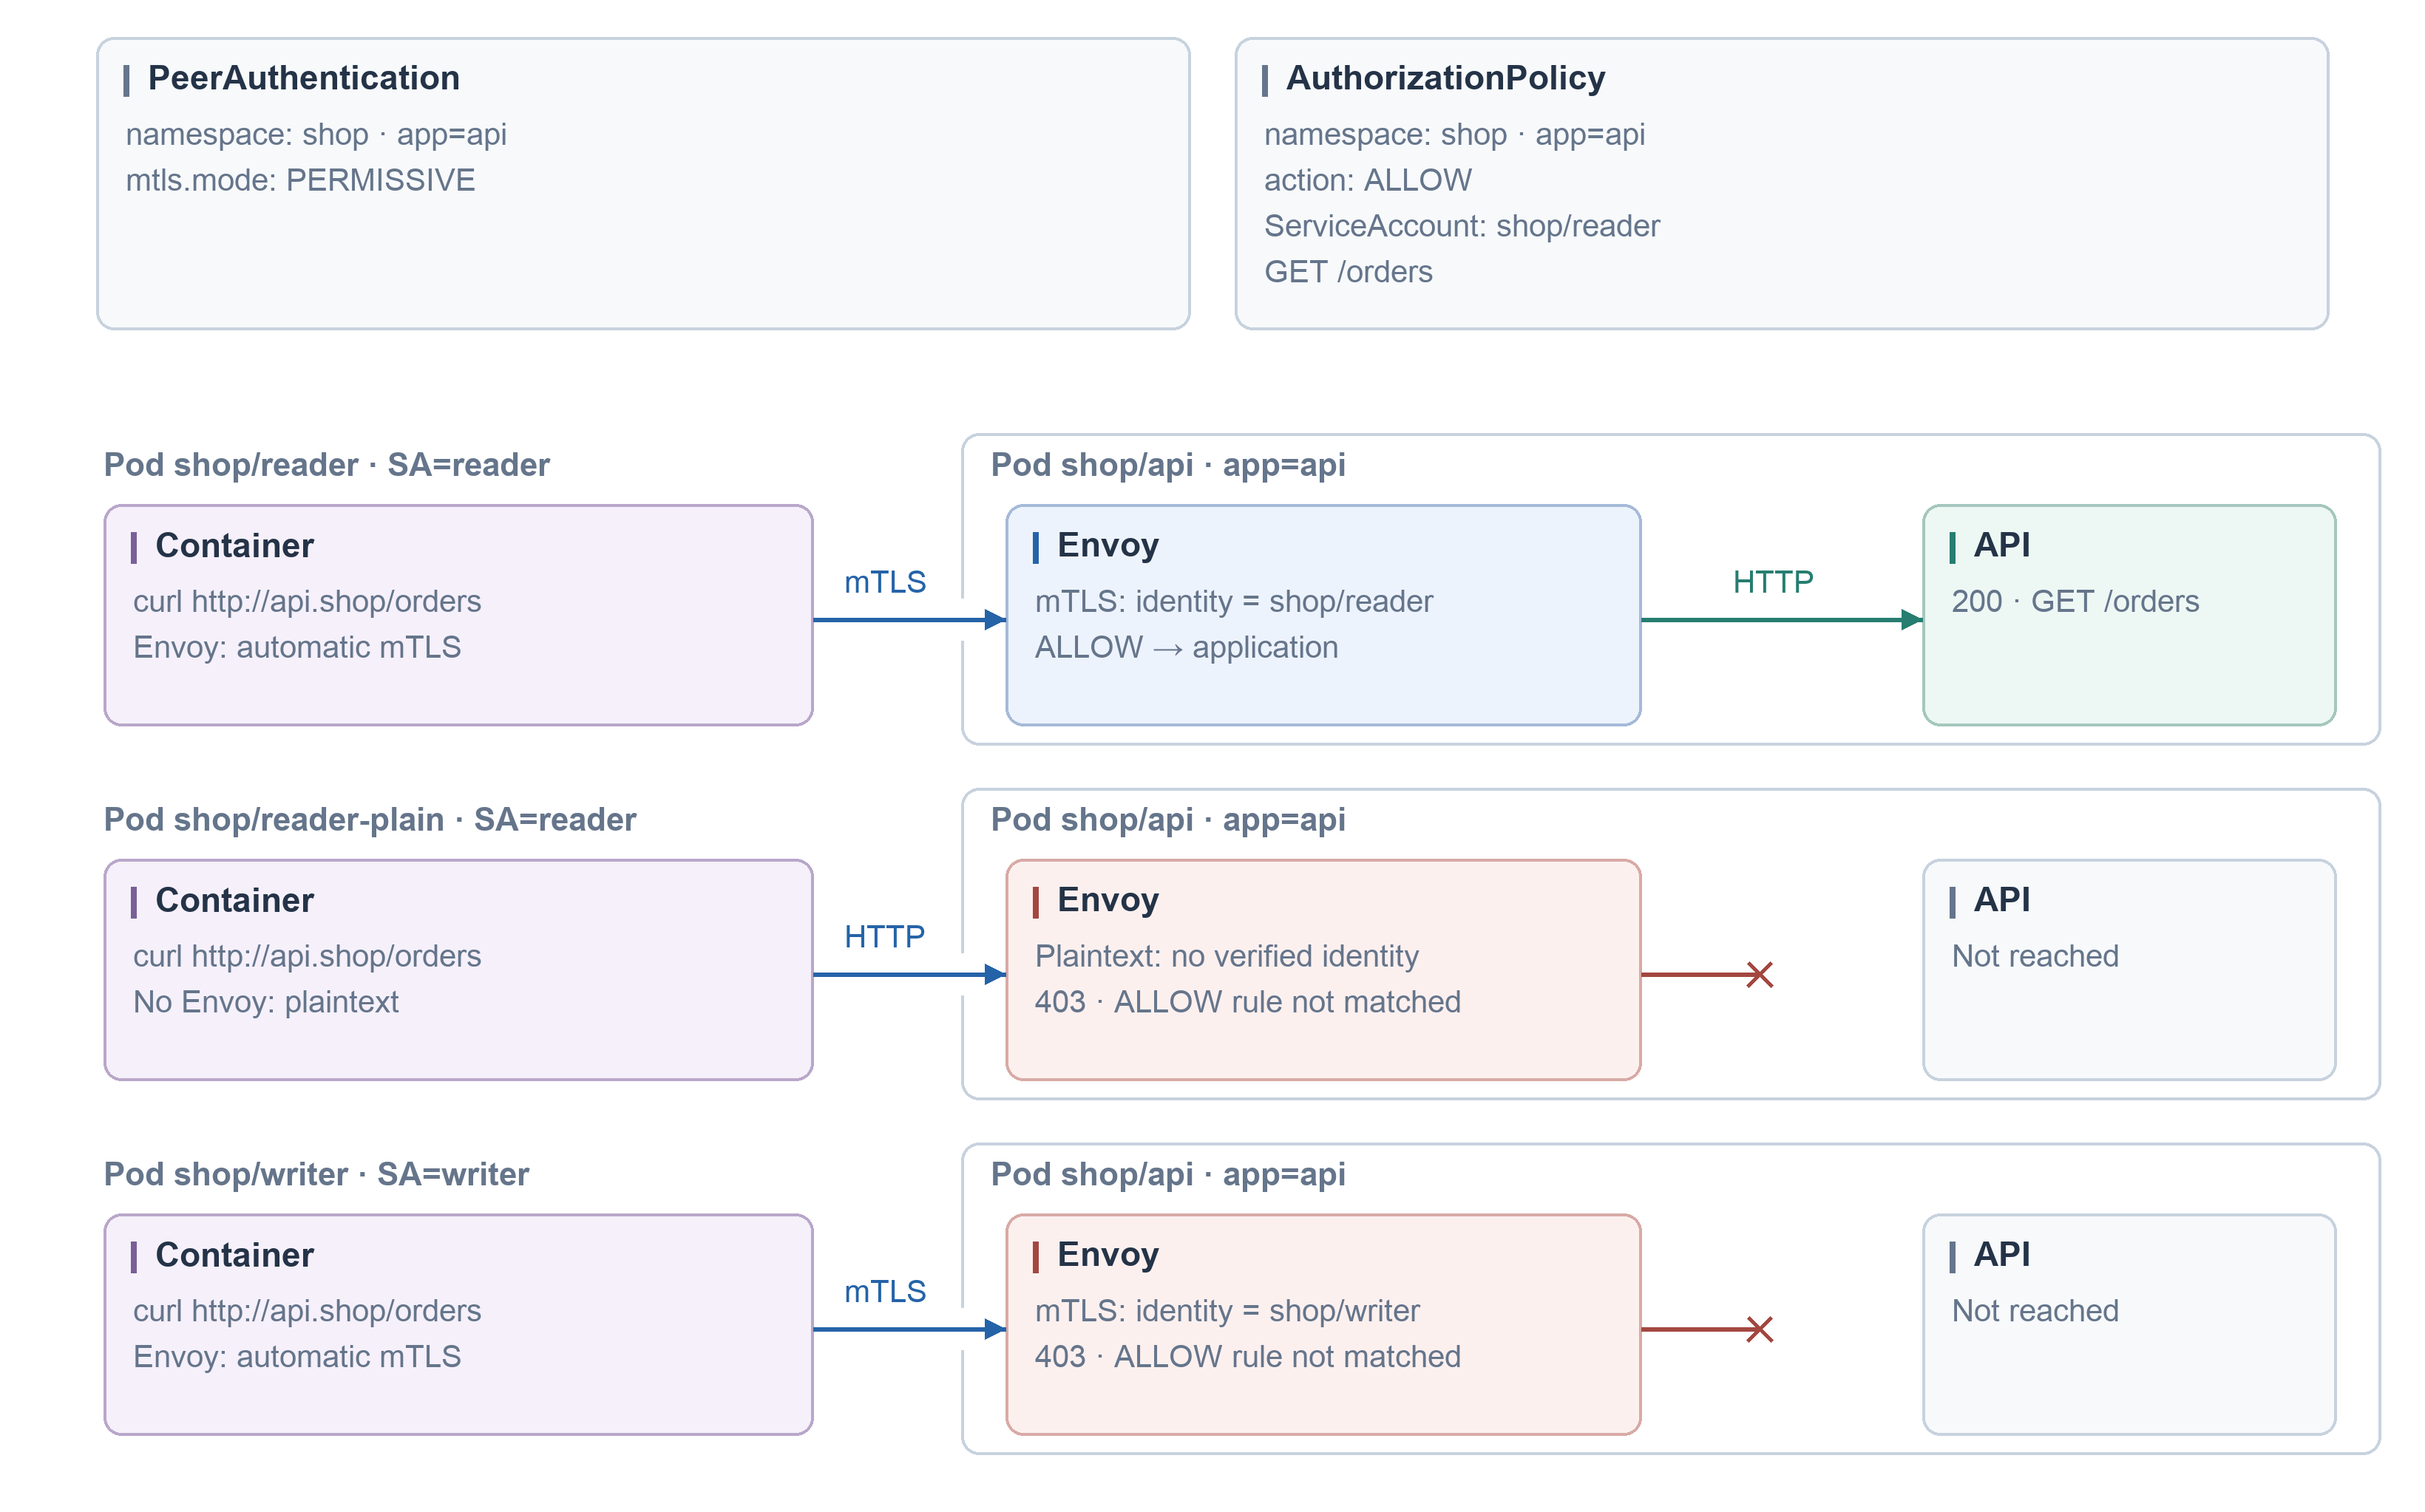
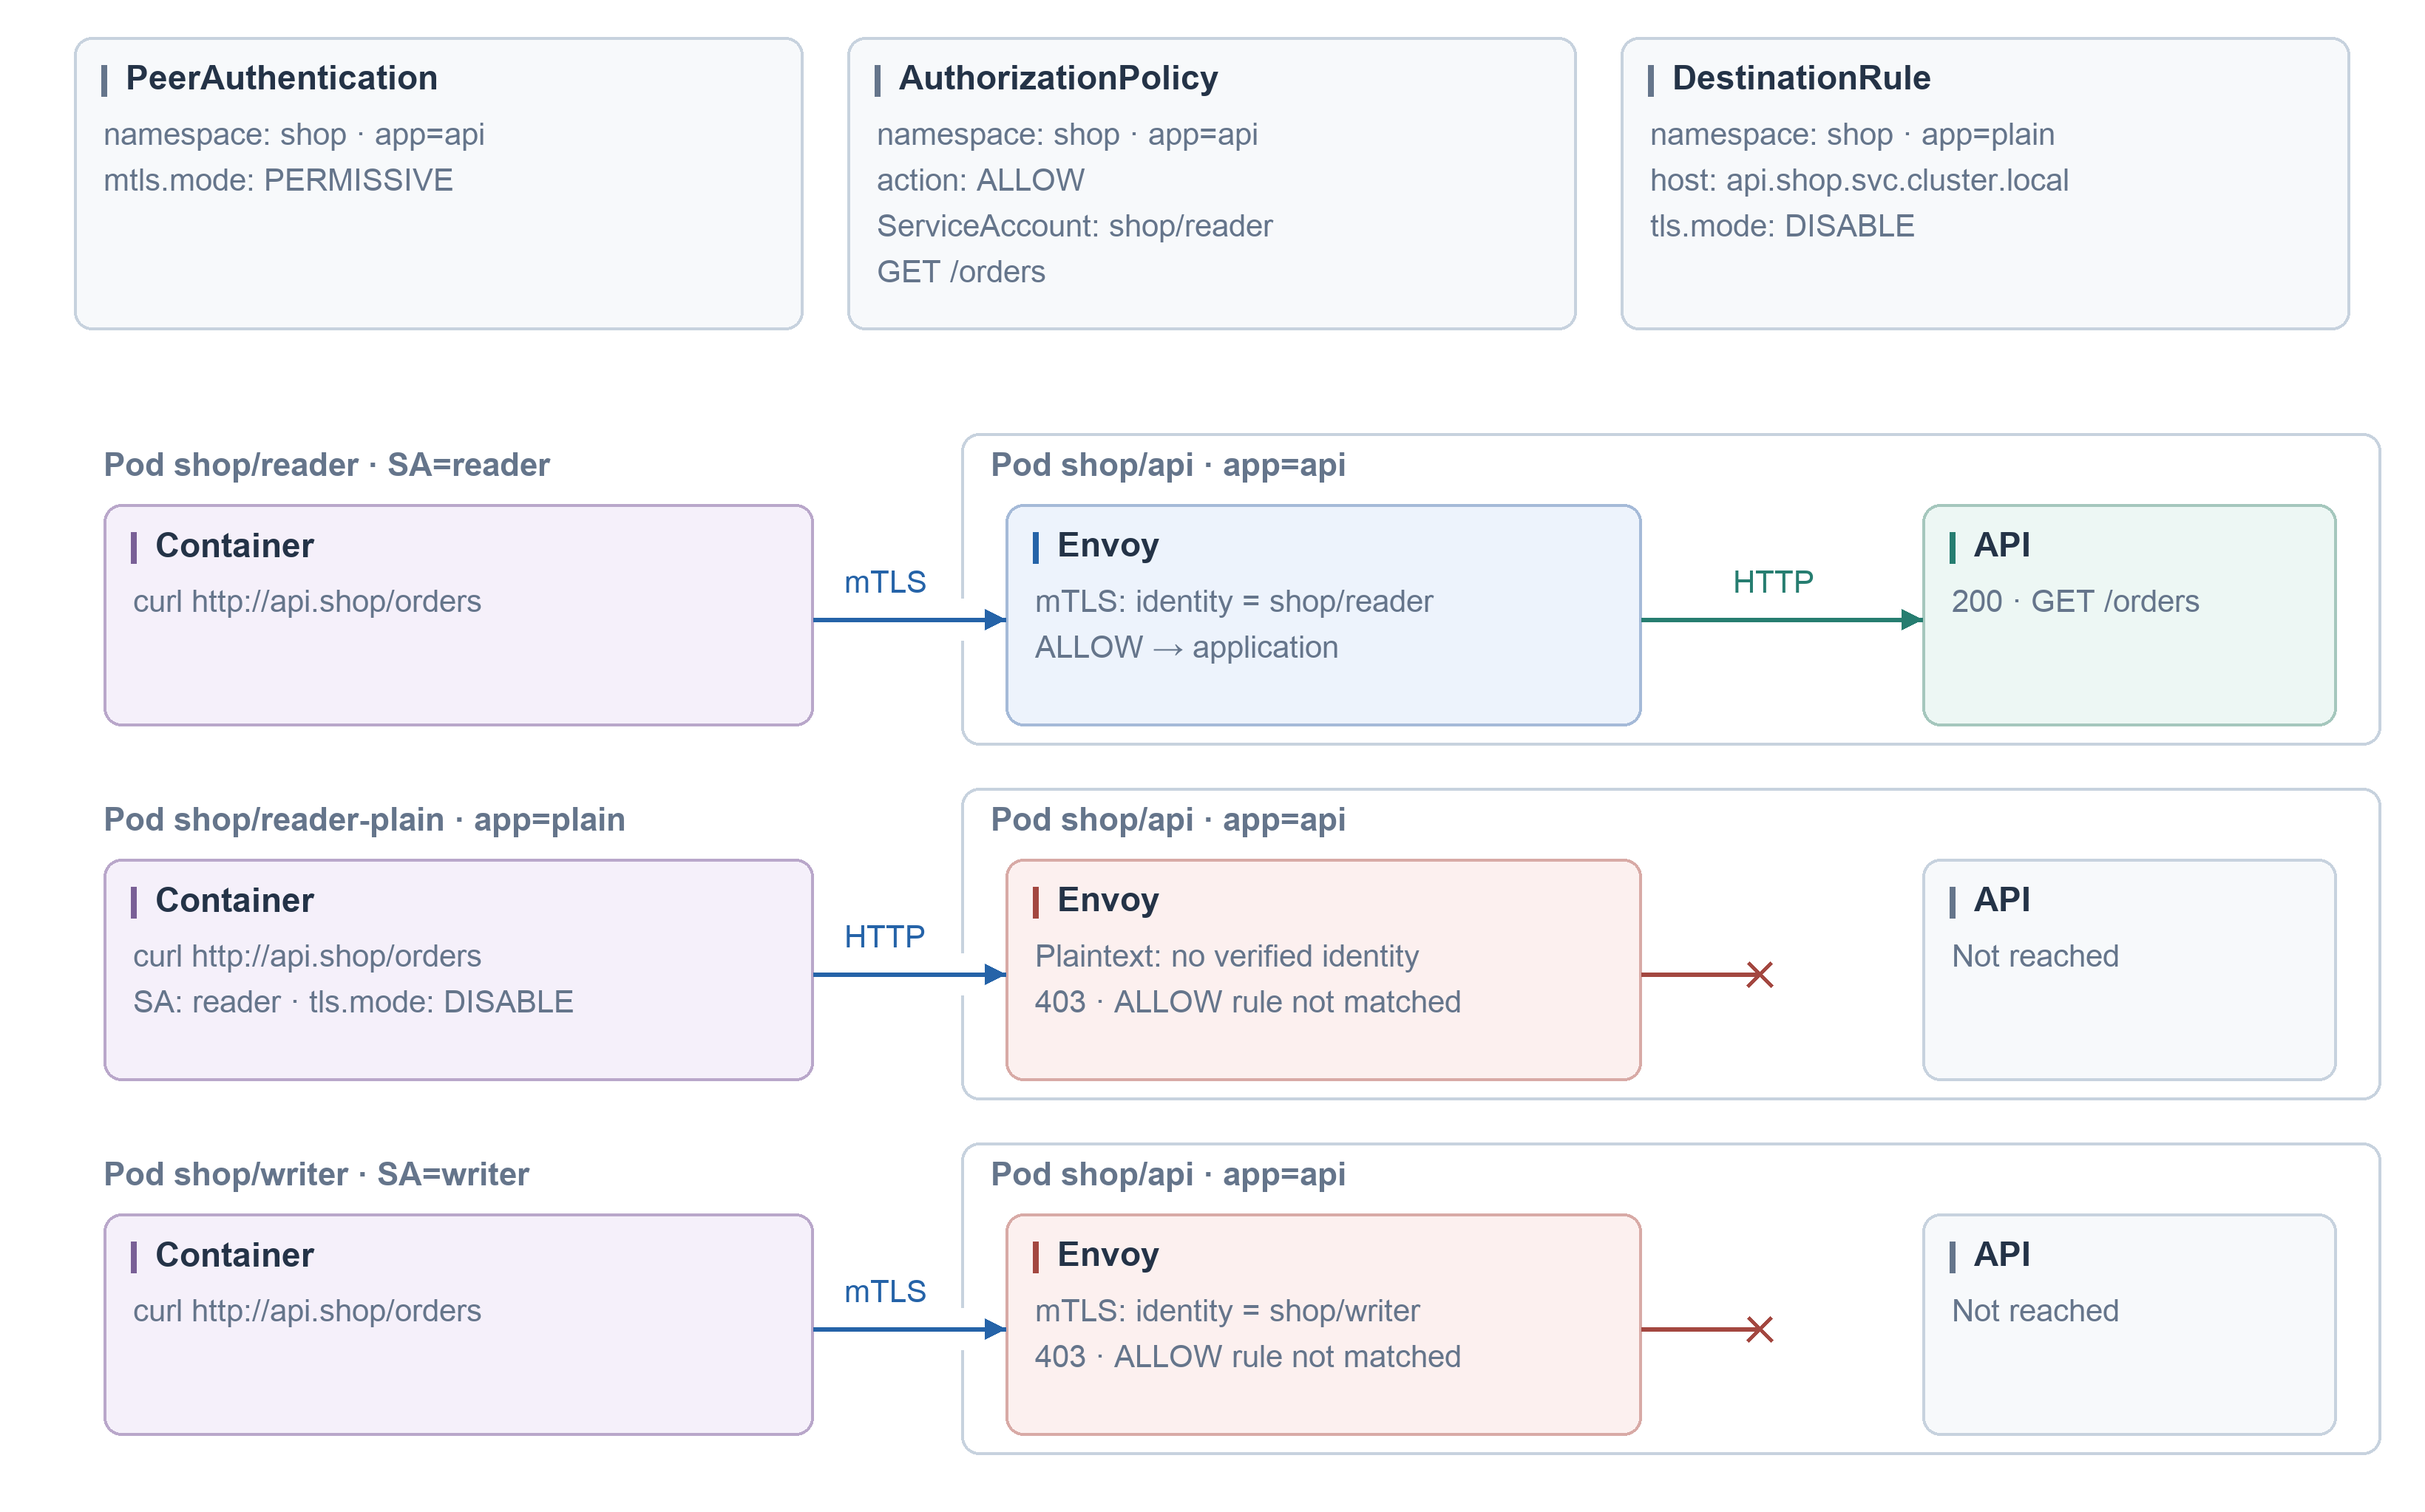
# Keep all diagram workloads inside Istio
Remove redundant injection labels. Replace no-sidecar cases with an
explicit client-scoped DestinationRule disabling TLS for app=plain.
Show the client Envoy's 503 when STRICT rejects that upstream connection.

Validated changed YAML against Istio schemas, checked renderer outputs
and visually reviewed all six updated diagrams. No runtime changes.

diff --git a/scripts/render_policy_examples.py b/scripts/render_policy_examples.py
@@ -48,8 +48,8 @@ def outgoing(namespace, imported=True, passthrough=False):
 
 def peer(account, path="orders", method="GET", *, decision, allowed, plaintext=False):
     command = f"curl {'-X POST ' if method == 'POST' else ''}http://api.shop/{path}"
-    return Case(f"shop/{account}{'-plain' if plaintext else ''} · SA={account}",
-                (command, "No Envoy: plaintext" if plaintext else "Envoy: automatic mTLS"),
+    return Case(f"shop/{account}-plain · app=plain" if plaintext else f"shop/{account} · SA={account}",
+                (command, f"SA: {account} · tls.mode: DISABLE") if plaintext else (command,),
                 decision, allowed, "HTTP" if plaintext else "mTLS",
                 result=(f"200 · {method} /{path}",))
 
@@ -60,7 +60,7 @@ def jwt(token, decision, allowed, path="orders", claim=""):
         command.append(f'-H "Authorization: Bearer ${token}"')
     if claim:
         command.append(claim)
-    return Case("shop/client · Envoy injected", tuple(command), decision, allowed,
+    return Case("shop/client", tuple(command), decision, allowed,
                 result=(f"200 · GET /{path}",))
 
 
@@ -77,7 +77,7 @@ EXAMPLES = (
     Example("peer-authorization", "strict-reader", "STRICT + ServiceAccount", (
         peer("reader", decision=("mTLS: accepted", "ALLOW reader + GET /orders"), allowed=True),
         peer("writer", decision=("mTLS: accepted", "403 · writer is not allowed"), allowed=False),
-        peer("reader", decision=("STRICT: plaintext rejected", "No HTTP response"), allowed=False, plaintext=True),
+        peer("reader", decision=("STRICT: plaintext rejected", "Client Envoy returns 503"), allowed=False, plaintext=True),
     )),
     Example("peer-authorization", "permissive-identity", "PERMISSIVE + ServiceAccount", (
         peer("reader", decision=("mTLS: identity = shop/reader", "ALLOW → application"), allowed=True),
@@ -109,13 +109,17 @@ EXAMPLES = (
 
 def summary(resource):
     kind, spec = resource["kind"], resource["spec"]
-    selector = spec["workloadSelector"]["labels"] if kind == "Sidecar" else spec["selector"]["matchLabels"]
+    selector = (spec["workloadSelector"]["labels"] if kind == "Sidecar" else
+                spec["workloadSelector"]["matchLabels"] if kind == "DestinationRule" else
+                spec["selector"]["matchLabels"])
     label = selector["app"]
     lines = [f"namespace: {resource['metadata']['namespace']} · app={label}"]
     if kind == "Sidecar":
         lines.append("outboundTrafficPolicy: " + spec["outboundTrafficPolicy"]["mode"])
         lines.append("hosts: " + ", ".join(spec["egress"][0]["hosts"][:2]))
         lines.extend(spec["egress"][0]["hosts"][2:])
+    elif kind == "DestinationRule":
+        lines.extend(["host: " + spec["host"], "tls.mode: " + spec["trafficPolicy"]["tls"]["mode"]])
     elif kind == "PeerAuthentication":
         lines.append("mtls.mode: " + spec["mtls"]["mode"])
     elif kind == "RequestAuthentication":

diff --git a/AGENTS.md b/AGENTS.md
@@ -2,6 +2,6 @@
 
 This repository contains small, independent Istio training examples. Follow the sibling istio-setup documentation style: README.md is a links-only index; topic pages start directly with short preparation/example headings. Use English for descriptions and diagrams. Always use wp.pl for example public domains, including the illustrative JWT issuer/JWKS; do not use example.com or example.test. Kubernetes Service DNS names remain real backend identifiers. Sidecar examples live in sidecar/; PeerAuthentication plus AuthorizationPolicy in peer-authorization/; JWT plus AuthorizationPolicy in request-authorization/. Each has a root README topic page with three YAML examples and a diagram per example. These are alternative configurations, not cumulative installations. ServiceEntry variants are alternatives for the same host, not a combined installation. Preserve the current branch and unrelated changes; commit/push only when requested.
 
-service-entry/*.yaml are the canonical copyable manifests. README.service-entry.md contains only example headings, YAML blocks and PNGs from images/service-entry/. scripts/render_service_entry.py renders the five diagrams and regenerates the topic page from these manifests. Each Pod shows a Container running plain curl http://wp.pl or curl https://wp.pl, its resolved IP, Envoy and the upstream socket. Above Envoy, a ServiceEntry block lists only relevant inputs (hosts, resolution, addresses/endpoints or port translation); Envoy shows the effective host-to-IP mapping instead of endpoints/configuration fields. ServiceEntry traffic arrows use HTTP/HTTPS, including HTTP-to-HTTPS origination; TLS remains only in actual configuration field names. Security and Sidecar diagrams explicitly distinguish HTTP from mTLS, and show where Envoy rejects a request before the API is reached. Resolver labels must be just DNS. Public examples must contain only short headings, comment-free YAML and diagrams. Explain behavior through diagram flows; never add explanatory YAML comments, prose, footers, callout cards or legends. Keep setup assumptions in this AGENTS.md. The offline Pillow/PyYAML renderer uses illustrative RFC 5737 DNS answers: wp.pl = 198.51.100.10 and backend.wp.pl = 198.51.100.20; these are not real DNS measurements. Assume sidecar mode with DNS capture disabled. For NONE, compare the curl DNS IP with the listed addresses and show that this ServiceEntry is not used when they differ. Draw separate outbound-policy outcomes: ALLOW_ANY keeps curl's original destination, REGISTRY_ONLY blocks the connection. Do not use unexplained no-IP-match shorthand, fabricate DNS rewriting or use --resolve. Name this example Original destination, not Service Translation. DNS endpoint overrides must explicitly show the different backend hostname's resolved IP beside that endpoint in the ServiceEntry block. STATIC selects the configured destination, and TLS origination uses targetPort to change ports.
+service-entry/*.yaml are the canonical copyable manifests. README.service-entry.md contains only example headings, YAML blocks and PNGs from images/service-entry/. scripts/render_service_entry.py renders the five diagrams and regenerates the topic page from these manifests. Each Pod shows a Container running plain curl http://wp.pl or curl https://wp.pl, its resolved IP, Envoy and the upstream socket. Above Envoy, a ServiceEntry block lists only relevant inputs (hosts, resolution, addresses/endpoints or port translation); Envoy shows the effective host-to-IP mapping instead of endpoints/configuration fields. ServiceEntry traffic arrows use HTTP/HTTPS, including HTTP-to-HTTPS origination; TLS remains only in actual configuration field names. Every illustrated Pod has an Istio sidecar. Omit redundant injection labels and never show a no-sidecar scenario. Plaintext security examples use an explicit client-scoped DestinationRule with tls.mode DISABLE and workloadSelector app=plain; the source Envoy returns 503 when STRICT rejects its upstream connection. Security and Sidecar diagrams explicitly distinguish HTTP from mTLS, and show where Envoy rejects a request before the API is reached. Resolver labels must be just DNS. Public examples must contain only short headings, comment-free YAML and diagrams. Explain behavior through diagram flows; never add explanatory YAML comments, prose, footers, callout cards or legends. Keep setup assumptions in this AGENTS.md. The offline Pillow/PyYAML renderer uses illustrative RFC 5737 DNS answers: wp.pl = 198.51.100.10 and backend.wp.pl = 198.51.100.20; these are not real DNS measurements. Assume sidecar mode with DNS capture disabled. For NONE, compare the curl DNS IP with the listed addresses and show that this ServiceEntry is not used when they differ. Draw separate outbound-policy outcomes: ALLOW_ANY keeps curl's original destination, REGISTRY_ONLY blocks the connection. Do not use unexplained no-IP-match shorthand, fabricate DNS rewriting or use --resolve. Name this example Original destination, not Service Translation. DNS endpoint overrides must explicitly show the different backend hostname's resolved IP beside that endpoint in the ServiceEntry block. STATIC selects the configured destination, and TLS origination uses targetPort to change ports.
 
 VirtualService sources in virtual-service/ were read through kubectl exec and Forgejo API as playground-admin from playground-system/trouble at revision 8636b996f4e40a85c0d22e0c1d7c64291d64a60b. Preserve the original routes, DestinationRule and inbound rate-limit EnvoyFilter; adapt the client-facing VirtualService host to wp.pl with a ServiceEntry alias and explicit prod-playground-trouble namespace. scripts/render_virtual_service.py generates the topic page and eleven diagrams. Topic examples are alternatives; the canonical trouble.yaml contains the complete ordered route set. Host/subset prerequisites and the rate-limit EnvoyFilter are embedded as YAML. Trouble response codes, probabilities and delays are scenario assumptions from source comments, not measured responses; rate limits are per inbound Envoy, pool limits per client Envoy, retries may stop at the overall timeout, and outlier diagrams assume at least two Pods and the consecutive-error threshold reached. Public page format stays heading/YAML/diagram only. Regenerate with python3 scripts/render_service_entry.py using an existing Python environment with Pillow and PyYAML; do not install dependencies without authorization. PNG output is reproducible with the same Pillow and fonts (Arial on macOS, DejaVu Sans fallback on Linux); --check compares generated Markdown and image pixels without writing files. Review every rendered image, parse the YAML, validate against locally available Istio schemas when possible, and review Git diff/status before committing. Do not apply manifests, start services, or contact example endpoints during verification. scripts/render_policy_examples.py generates the nine additional PNGs and three topic pages, with the same --check workflow and shared Canvas. Assume existing HTTP Services api.shop, api.payments and api.reporting, exported to shop, with Service port 80 mapping to Pod port 8080; APIs return 200 when reached on the illustrated routes. These fixture assumptions belong here, not in YAML comments. JWT placeholders VALID/ADMIN/USER are signed and unexpired with the configured issuer/audience; INVALID has a bad signature. ADMIN has role=admin and USER has role=user. Invalid JWT remains rejected on public /healthz. Use illustrative DNS Service IPs, trust domain cluster.local, automatic client mTLS and no additional matching policies. Sidecar is configuration scoping, not a security boundary; its ALLOW_ANY example explicitly assumes a plaintext-capable destination. Strict mTLS rejection is a transport failure, RBAC denial is HTTP 403, invalid JWT is HTTP 401, and missing JWT requires an AuthorizationPolicy to be rejected. JWT issuer/JWKS URLs and shell token variables are placeholders. The documentation describes intended routing, not a verified live environment.

diff --git a/README.peer-authorization.md b/README.peer-authorization.md
@@ -32,6 +32,22 @@ spec:
         - operation:
             methods: [GET]
             paths: [/orders]
+---
+apiVersion: networking.istio.io/v1
+kind: DestinationRule
+metadata:
+  name: api-plaintext-client
+  namespace: shop
+spec:
+  host: api.shop.svc.cluster.local
+  exportTo:
+    - "."
+  workloadSelector:
+    matchLabels:
+      app: plain
+  trafficPolicy:
+    tls:
+      mode: DISABLE
 ```
 
 ![STRICT + ServiceAccount](images/peer-authorization/strict-reader.png)
@@ -70,6 +86,22 @@ spec:
         - operation:
             methods: [GET]
             paths: [/orders]
+---
+apiVersion: networking.istio.io/v1
+kind: DestinationRule
+metadata:
+  name: api-plaintext-client
+  namespace: shop
+spec:
+  host: api.shop.svc.cluster.local
+  exportTo:
+    - "."
+  workloadSelector:
+    matchLabels:
+      app: plain
+  trafficPolicy:
+    tls:
+      mode: DISABLE
 ```
 
 ![PERMISSIVE + ServiceAccount](images/peer-authorization/permissive-identity.png)
